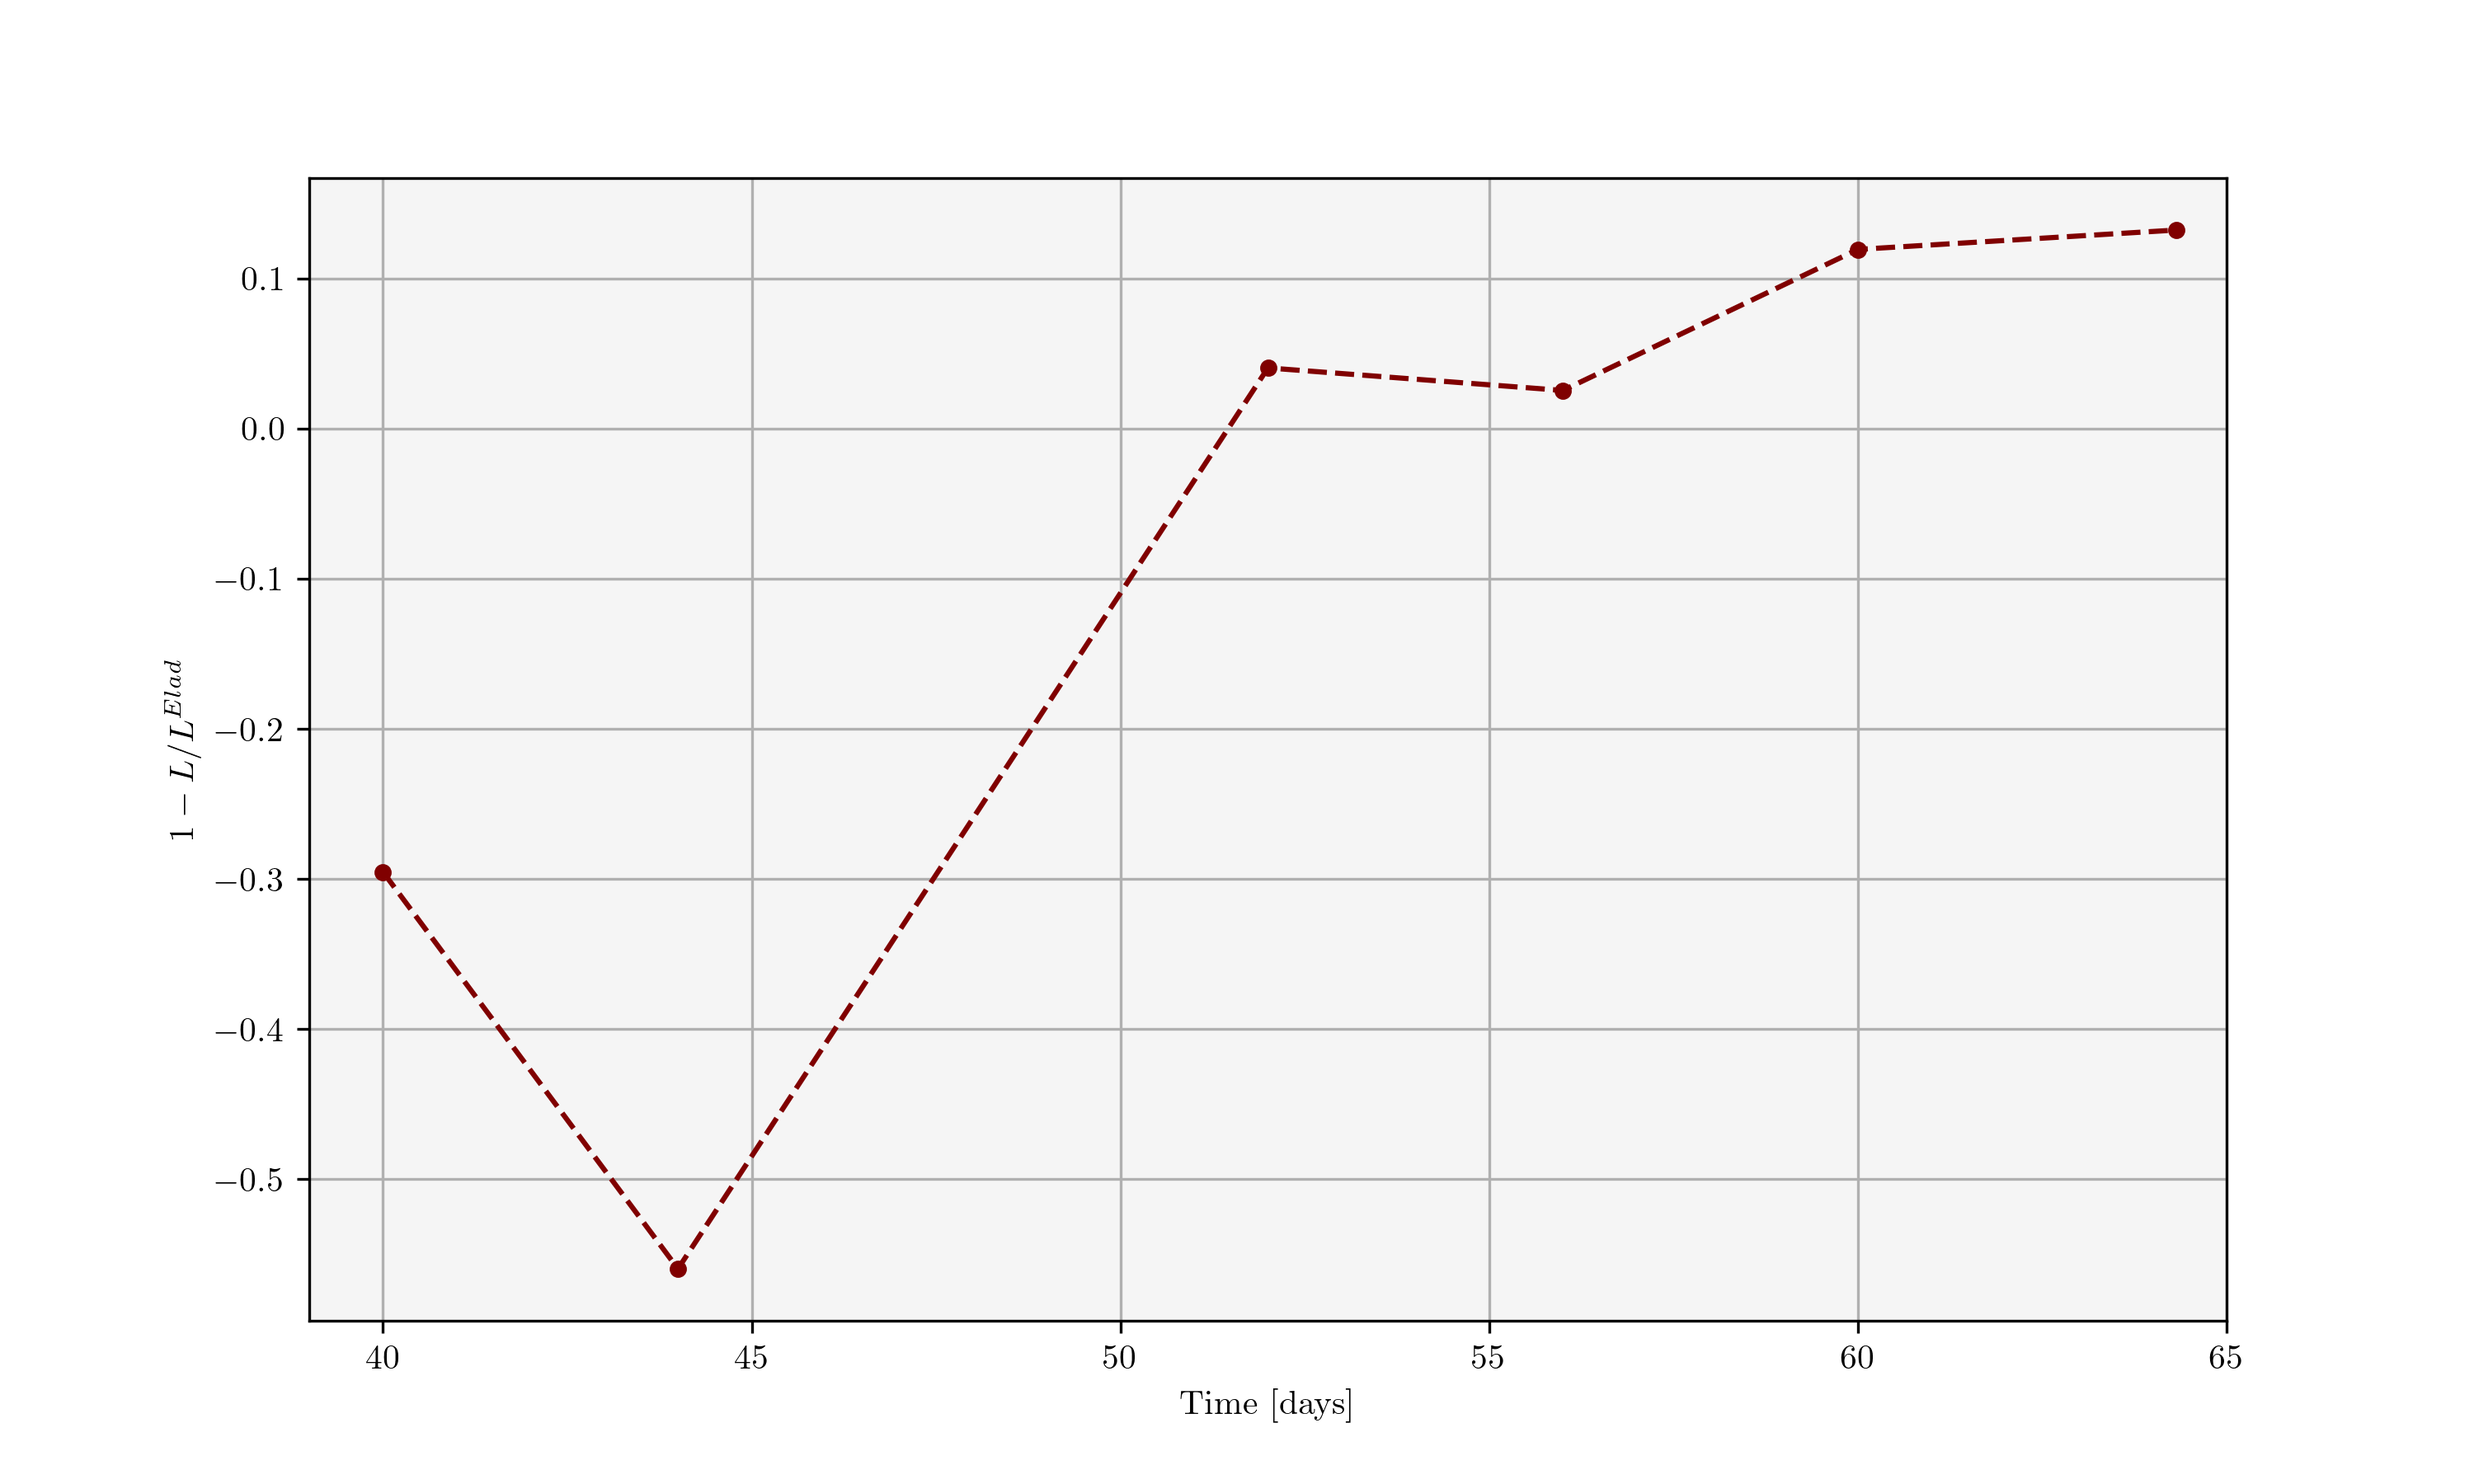
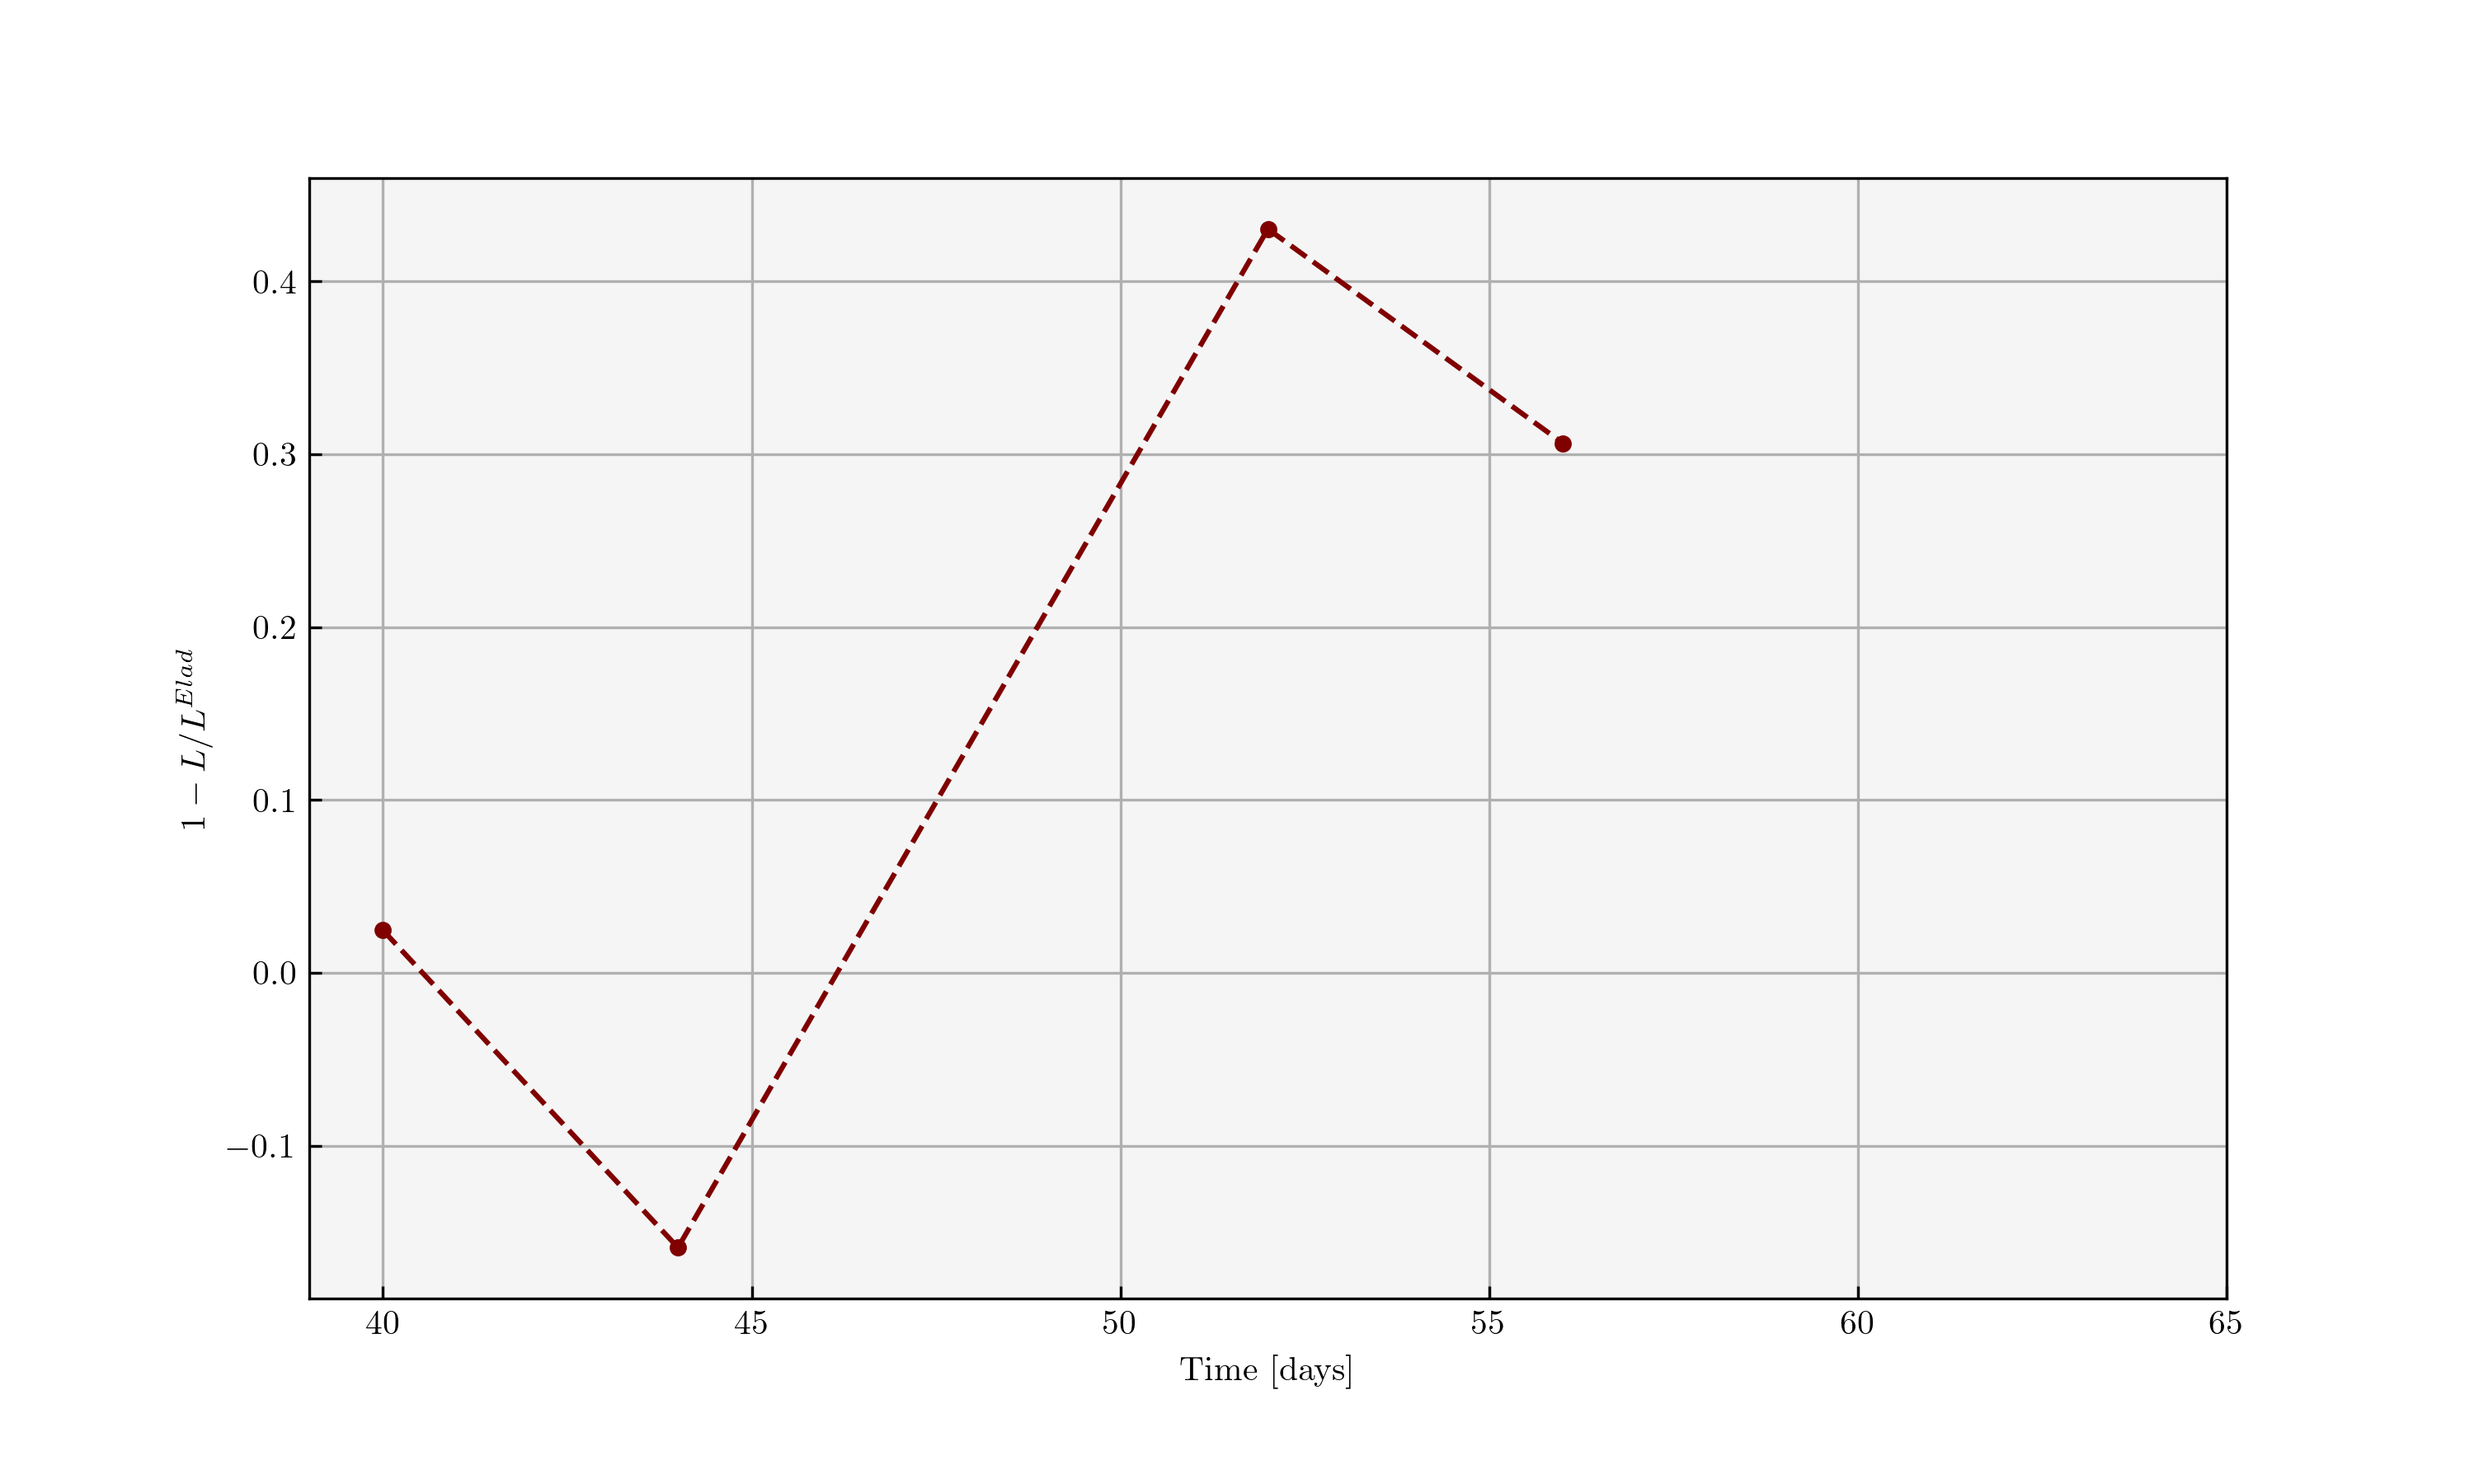
add magnitude to red flux calculation

diff --git a/src/Luminosity/red_tree.py b/src/Luminosity/red_tree.py
@@ -58,8 +58,8 @@ def select_fix(m):
             snapshots = np.arange(844, 1008 + 1)
             days = [1.00325,1.007,1.01075,1.01425,1.018,1.02175,1.0255,1.029,1.03275,1.0365,1.04025,1.04375,1.0475,1.05125,1.055,1.0585,1.06225,1.066,1.06975,1.07325,1.077,1.08075,1.0845,1.088,1.09175,1.0955,1.09925,1.10275,1.1065,1.11025,1.114,1.1175,1.12125,1.125,1.12875,1.13225,1.136,1.13975,1.1435,1.147,1.15075,1.1545,1.15825,1.16175,1.1655,1.16925,1.173,1.1765,1.18025,1.184,1.18775,1.19125,1.195,1.19875,1.2025,1.206,1.20975,1.2135,1.21725,1.22075,1.2245,1.22825,1.232,1.2355,1.23925,1.243,1.24675,1.25025,1.254,1.25775,1.2615,1.265,1.26875,1.2725,1.27625,1.27975,1.2835,1.28725,1.291,1.2945,1.29825,1.302,1.30575,1.30925,1.313,1.31675,1.3205,1.324,1.32775,1.3315,1.33525,1.33875,1.3425,1.34625,1.35,1.3535,1.35725,1.361,1.36475,1.36825,1.372,1.37575,1.3795,1.383,1.38675,1.3905,1.39425,1.39775,1.4015,1.40525,1.409,1.4125,1.41625,1.42,1.42375,1.42725,1.431,1.43475,1.4385,1.442,1.44575,1.4495,1.45325,1.45675,1.4605,1.46425,1.468,1.4715,1.47525,1.479,1.48275,1.48625,1.49,1.49375,1.4975,1.501,1.50475,1.5085,1.51225,1.51575,1.5195,1.52325,1.527,1.5305,1.53425,1.538,1.54175,1.54525,1.549,1.55275,1.5565,1.56,1.56375,1.5675,1.57125,1.57475,1.5785,1.58225,1.586,1.5895,1.59325,1.597,1.60075,1.60425,1.608]
         else:
-            snapshots = [844, 881, 925, 950, 1008] 
-            days = [1, 1.1, 1.3, 1.4, 1.608] 
+            snapshots = [844, 881, 925, 950]# 1008] 
+            days = [1, 1.1, 1.3, 1.4]# 1.608] 
     return snapshots, days
 
 def find_neighbours(fix, m, tree_index_photo, dist_neigh):
@@ -136,8 +136,12 @@ def find_neighbours(fix, m, tree_index_photo, dist_neigh):
         idx_high[i] = idx_h
         xyz_low = np.array([X[idx_l], Y[idx_l], Z[idx_l]])
         xyz_high = np.array([X[idx_h], Y[idx_h], Z[idx_h]])
+        
+        # Diff is vector
         diff = 1 / np.subtract(xyz_high, xyz_low)
         diff = diff / Rsol_to_cm # convert to CGS
+        
+        # Unitary vector in the r direction, for each observer
         rhat = [np.sin(theta_obs[i]) * np.cos(phi_obs[i]),
                 np.sin(theta_obs[i]) * np.sin(phi_obs[i]),
                 np.cos(theta_obs[i])
@@ -158,76 +162,9 @@ def find_neighbours(fix, m, tree_index_photo, dist_neigh):
 
     #grad_xyz = grad_xyz / Rsol_to_cm
     grad_Er = deltaE * grad_r
-    magnitude *= deltaE
-    print(magnitude)
+    magnitude *= np.abs(deltaE)
     
     return grad_Er, magnitude, energy_high, T_high, den_high
-
-# def find_neighbours(rays_T, rays_den, rays, radii, rays_index_photo, dist_neigh):
-#     """
-#     For every ray, find the cells that are at +- fixed distance from photosphere.
-#     fixed distance = dimension of simulation cell at the photosphere
-
-#     Parameters
-#     ----------
-#     rays_T: n-D arrays.
-#             Temperature of every ray/cell (CGS).
-#     rays_den: n-D arrays.
-#             Density of every ray/cell (CGS).
-#     rays: n-D arrays.
-#         Energy of every ray/cell (CGS).
-#     radii: 1D array.
-#             Radius (CGS).
-#     rays_index_photo: 1D array.
-#                 Photosphere index in our rays.
-#     dist_neigh : 1D array.
-#               Distance from photosphere (CGS).
-
-#     Returns
-#     -------
-#     grad_E: array.
-#             Energy gradient for every ray at photosphere. 
-#     energy_high: array.
-#             Energy for every ray in a cell outside photosphere. 
-#     T_high: array.
-#             Temperature for every ray in a cell outside photosphere. 
-#     den_high: array.
-#             Density for every ray in a cell outside photosphere. 
-#     """
-#     # convert the elements in rays_index_photo in int
-#     rays_index_photo = rays_index_photo.astype(int) 
-#     dist_neigh_high = radii[rays_index_photo] + dist_neigh
-#     dist_neigh_low = radii[rays_index_photo] - dist_neigh
-
-#     grad_E = np.zeros(len(rays_index_photo))
-#     energy_high = np.zeros(len(rays_index_photo))
-#     T_high = np.zeros(len(rays_index_photo))
-#     den_high = np.zeros(len(rays_index_photo))
-
-#     for i in range(len(rays_index_photo)):
- 
-#         # Isolate each ray
-#         T_of_single_ray = rays_T[i]
-#         Den_of_single_ray = rays_den[i]
-#         energy_of_single_ray = rays[i]
-
-#         # Find and store the neighbour with R ~ R_{ph} + dist_neigh
-#         index_high = np.argmin((np.abs(dist_neigh_high[i] - radii)))
-#         radius_high = radii[index_high]
-#         energy_high[i] = energy_of_single_ray[index_high]
-#         T_high[i] = T_of_single_ray[index_high]
-#         den_high[i] = Den_of_single_ray[index_high]
-
-#         # Find the neighbour with R ~ R_{ph} - dist_neigh
-#         index_low = np.argmin((np.abs(dist_neigh_low[i] - radii)))
-#         radius_low = radii[index_low]
-#         energy_low = energy_of_single_ray[index_low]
-
-#         # Compute the gradient 
-#         dr = radius_high - radius_low
-#         grad_E[i] = (energy_high[i] - energy_low) / dr
-
-#     return grad_E, energy_high, T_high, den_high
 
     
 def flux_calculator(grad_E, magnitude, selected_energy, 
@@ -301,7 +238,7 @@ def flux_calculator(grad_E, magnitude, selected_energy,
         coth = 1 / np.tanh(R_kr)
         lamda = invR * (coth - invR)
         # Calc Flux, eq. 26
-        Flux = - c_cgs * grad_E[i]  * lamda / k_ross
+        Flux =  - c_cgs * grad_E[i]  * lamda / k_ross
         
         # Choose
         if Flux > max_travel:
@@ -373,7 +310,7 @@ def doer_of_thing(fix, m, num = 1000):
 ##
 if __name__ == "__main__":
     save = True
-    plot = False
+    plot = True
     m = 6 # Choose BH
     fixes, days = select_fix(m)
     lums = []

diff --git a/src/Luminosity/special_radii_tree.py b/src/Luminosity/special_radii_tree.py
@@ -77,12 +77,14 @@ def get_kappa(T: float, rho: float, r_dlogr: float):
     elif T > np.exp(17.876):
         X = 0.7389
         Z = 0.02
-        #kplanck =  1.2e26 * Z * (1 + X) * T**(-3.5) * rho #Kramers' bound-free opacity [cm^2/g]
-        kplanck = 3.68e22 * (1-Z) * (1 + X) * T**(-3.5) * rho #Kramers' free-free opacity [cm^2/g]
-        kplanck *= rho
-
-        Tscatter = np.exp(17.87)
-        kscattering = opacity(Tscatter, rho, 'scattering', ln = False)
+        
+        # Constant value for scatter
+        Tmax = np.exp(17.87)
+        kscattering = opacity(Tmax, rho, 'scattering', ln = False)
+        
+        # Scale as Kramers the last point for absorption
+        kplank_0 = opacity(Tmax, rho, 'planck', ln = False)
+        kplanck = kplank_0 * (T/Tmax)**(-3.5)
 
         oppi = kplanck + kscattering
         tau_high = oppi * r_dlogr

diff --git a/src/Calculators/ray_tree.py b/src/Calculators/ray_tree.py
@@ -62,6 +62,7 @@ def ray_maker(fix, m, num = 1000):
         Den = np.load( str(m) + '/'  + fix + '/Den_' + fix + '.npy')
         Rad = np.load( str(m) + '/'  +fix + '/Rad_' + fix + '.npy')
     
+    # Move pericenter to 0
     X -= Rt
     # Convert Energy / Mass to Energy Density in CGS
     Rad *= Den 
